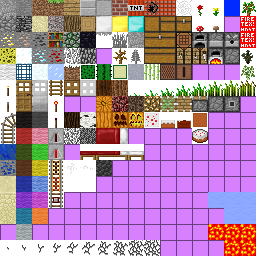
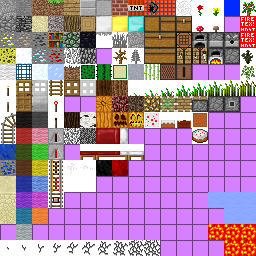
made comments more useful, added coal and redstone blocks with textures based on lapis block

Changed region(s): [[0.375, 0.625, 0.5, 0.6875]]

diff --git a/minecraft/src/net/minecraft/src/CraftingManager.java b/minecraft/src/net/minecraft/src/CraftingManager.java
@@ -79,13 +79,30 @@ public class CraftingManager {
 		this.addRecipe(new ItemStack(Block.pistonStickyBase, 1), new Object[]{"S", "P", Character.valueOf('S'), Item.slimeBall, Character.valueOf('P'), Block.pistonBase});
 		this.addRecipe(new ItemStack(Item.bed, 1), new Object[]{"###", "XXX", Character.valueOf('#'), Block.cloth, Character.valueOf('X'), Block.planks});
 
-    //BlockBackports ModStart
+    //GoldenAppleRecipe ModStart
 		this.addRecipe("GoldenAppleRecipe", new ItemStack(Item.appleGold, 1), new Object[]{"###", "#X#", "###", Character.valueOf('#'), Block.blockGold, Character.valueOf('X'), Item.appleRed});
+    //GoldenAppleRecipe ModEnd
 
+    //BlockBackports ModStart
 		this.addRecipe("SpongeRecipe", new ItemStack(Block.sponge, 1), new Object[]{" S ", "SYS", " S ", Character.valueOf('S'), Item.slimeBall, Character.valueOf('Y'), new ItemStack(Block.cloth, 1, 4)});
 
+    //FenceGate ModStart
 		this.addRecipe("FenceGate", new ItemStack(Block.fenceGate, 1), new Object[]{"#W#", "#W#", Character.valueOf('#'), Item.stick, Character.valueOf('W'), Block.planks});
+    //FenceGate ModStart
+    
+    //LeatherBookRecipe ModStart
+		if(Block.config.getProperty("LeatherBookRecipe").equals("1")) {
+			this.addShapelessRecipe(new ItemStack(Item.book, 1), new Object[]{new ItemStack(Item.paper, 1), new ItemStack(Item.paper, 1), new ItemStack(Item.paper, 1), new ItemStack(Item.leather, 1)});
+		} else {
+			this.addRecipe(new ItemStack(Item.book, 1), new Object[]{"#", "#", "#", Character.valueOf('#'), Item.paper});
+		}
+    //LeatherBookRecipe ModEnd
+    
+    //IronTrapdoor ModStart
+		this.addRecipe("IronTrapdoor", new ItemStack(Block.trapdoorIron, 2), new Object[]{"###", "###", Character.valueOf('#'), Item.ingotIron});
+    //IronTrapdoor ModEnd
 
+    //BlockBackports ModStart
 		this.addRecipe("SandstoneStairs", new ItemStack(Block.stairCompactSandstone, 4), new Object[]{"#  ", "## ", "###", Character.valueOf('#'), Block.sandStone});
 
 		this.addRecipe("BrickStairs", new ItemStack(Block.stairCompactBrick, 4), new Object[]{"#  ", "## ", "###", Character.valueOf('#'), Block.brick});
@@ -104,18 +121,18 @@ public class CraftingManager {
 			this.addRecipe(new ItemStack(Block.button, 1), new Object[]{"#", "#", Character.valueOf('#'), Block.stone});
 		}
 
-		this.addRecipe("IronTrapdoor", new ItemStack(Block.trapdoorIron, 2), new Object[]{"###", "###", Character.valueOf('#'), Item.ingotIron});
 
 		this.addRecipe("CobwebRecipe", new ItemStack(Block.web, 1), new Object[]{"###", "#S#", "###", Character.valueOf('#'), Item.silk, Character.valueOf('S'), Item.slimeBall});
     //BlockBackports ModEnd
+    
+    //RedstoneBlock ModStart
+		this.addRecipe("RedstoneBlock", new ItemStack(Block.blockRedstone, 1), new Object[]{"###", "###", "###", Character.valueOf('#'), Item.redstone});
+    //RedstoneBlock ModEnd
+    
+    //CoalBlock ModStart
+		this.addRecipe("CoalBlock", new ItemStack(Block.blockCoal, 1), new Object[]{"###", "###", "###", Character.valueOf('#'), Item.coal});
+    //CoalBlock ModEnd
 
-    //LeatherBookRecipe ModStart
-		if(Block.config.getProperty("LeatherBookRecipe").equals("1")) {
-			this.addShapelessRecipe(new ItemStack(Item.book, 1), new Object[]{new ItemStack(Item.paper, 1), new ItemStack(Item.paper, 1), new ItemStack(Item.paper, 1), new ItemStack(Item.leather, 1)});
-		} else {
-			this.addRecipe(new ItemStack(Item.book, 1), new Object[]{"#", "#", "#", Character.valueOf('#'), Item.paper});
-		}
-    //LeatherBookRecipe ModEnd
 
 		Collections.sort(this.recipes, new RecipeSorter(this));
 		System.out.println(this.recipes.size() + " recipes");

diff --git a/minecraft/src/net/minecraft/src/Block.java b/minecraft/src/net/minecraft/src/Block.java
@@ -12,6 +12,8 @@ public class Block {
 		"SandstoneStairs=1\n" +
 		"BrickSlab=1\n" +
 		"FenceGate=1\n" +
+		"RedstoneBlock=1\n" +
+		"CoalBlock=1\n" +
 		"WoodButton=1\n" +
 		"IronTrapdoor=1\n" +
 		"FloatingIronTrapdoor=1\n" +
@@ -192,12 +194,25 @@ public class Block {
   //id, texture, material
 	public static final Block stairCompactBrick = (new BlockStairs(108, brick)).setBlockName("stairsBrick").disableNeighborNotifyOnMetadataChange();
 	public static final Block stairCompactSandstone = (new BlockStairs(128, sandStone)).setBlockName("stairsSandstone").disableNeighborNotifyOnMetadataChange();
-	public static final Block fenceGate = (new BlockFenceGate(107, 4)).setHardness(2.0F).setResistance(5.0F).setStepSound(soundWoodFootstep).setBlockName("fenceGate").disableNeighborNotifyOnMetadataChange();
 	public static final Block buttonWood = (new BlockButton(143, planks.blockIndexInTexture)).setHardness(0.5F).setStepSound(soundWoodFootstep).setBlockName("button").disableNeighborNotifyOnMetadataChange();
+  //BlockBackports ModEnd
+  
+  //IronTrapdoor ModStart
 	public static final Block trapdoorIron = (new BlockTrapDoorIron(97, Material.iron)).setHardness(5.0F).setStepSound(soundMetalFootstep).setBlockName("trapdoorIron").disableStats().disableNeighborNotifyOnMetadataChange();
+  //IronTrapdoor ModEnd
+
+  //FenceGate ModStart
+	public static final Block fenceGate = (new BlockFenceGate(107, 4)).setHardness(2.0F).setResistance(5.0F).setStepSound(soundWoodFootstep).setBlockName("fenceGate").disableNeighborNotifyOnMetadataChange();
+  //FenceGate ModEnd
+  
+  //CoalBlock ModStart
   //material wood so it can be used to burn without editing Material.java
 	public static final Block blockCoal = (new Block(98, 166, Material.wood)).setHardness(3.0F).setResistance(5.0F).setStepSound(soundStoneFootstep).setBlockName("blockCoal");
-  //BlockBackports ModEnd
+  //CoalBlock ModEnd
+  
+  //RedstoneBlock ModStart
+	public static final Block blockRedstone = (new Block(152, 167, Material.rock)).setHardness(5.0F).setResistance(10.0F).setStepSound(soundMetalFootstep).setBlockName("blockRedstone");
+  //RedstoneBlock ModEnd
 
 
 	public int blockIndexInTexture;

diff --git a/minecraft/src/net/minecraft/src/ItemPickaxe.java b/minecraft/src/net/minecraft/src/ItemPickaxe.java
@@ -1,7 +1,7 @@
 package net.minecraft.src;
 
 public class ItemPickaxe extends ItemTool {
-	private static Block[] blocksEffectiveAgainst = new Block[]{Block.cobblestone, Block.stairDouble, Block.stairSingle, Block.stone, Block.sandStone, Block.cobblestoneMossy, Block.oreIron, Block.blockSteel, Block.oreCoal, Block.blockGold, Block.oreGold, Block.oreDiamond, Block.blockDiamond, Block.ice, Block.netherrack, Block.oreLapis, Block.blockLapis, Block.blockCoal};
+	private static Block[] blocksEffectiveAgainst = new Block[]{Block.cobblestone, Block.stairDouble, Block.stairSingle, Block.stone, Block.sandStone, Block.cobblestoneMossy, Block.oreIron, Block.blockSteel, Block.oreCoal, Block.blockGold, Block.oreGold, Block.oreDiamond, Block.blockDiamond, Block.ice, Block.netherrack, Block.oreLapis, Block.blockLapis};
 
 	protected ItemPickaxe(int var1, EnumToolMaterial var2) {
 		super(var1, 2, var2, blocksEffectiveAgainst);
@@ -17,7 +17,9 @@ public class ItemPickaxe extends ItemTool {
 	}
 
 	//ToolFix ModStart
-	private static Block[] toolFixBlocks = new Block[]{Block.oreRedstone, Block.oreRedstoneGlowing, Block.stairCompactCobblestone, Block.doorSteel, Block.brick, Block.stoneOvenIdle, Block.stoneOvenActive, Block.dispenser, Block.pressurePlateStone, Block.rail, Block.railPowered, Block.railDetector, Block.button};
+	//CoalBlock ModStart
+	//RedstoneBlock ModStart
+	private static Block[] toolFixBlocks = new Block[]{Block.oreRedstone, Block.oreRedstoneGlowing, Block.stairCompactCobblestone, Block.doorSteel, Block.brick, Block.stoneOvenIdle, Block.stoneOvenActive, Block.dispenser, Block.pressurePlateStone, Block.rail, Block.railPowered, Block.railDetector, Block.button, Block.blockCoal, Block.blockRedstone};
 
 	public float getStrVsBlock(ItemStack var1, Block block) {
 		if(Block.config.getProperty("ToolFix").equals("1")) {
@@ -31,4 +33,6 @@ public class ItemPickaxe extends ItemTool {
 		return super.getStrVsBlock(var1, block);
 	}
 	//ToolFix ModEnd
+	//CoalBlock ModEnd
+	//RedstoneBlock ModEnd
 }

diff --git a/minecraft/src/net/minecraft/src/World.java b/minecraft/src/net/minecraft/src/World.java
@@ -2144,16 +2144,19 @@ public class World implements IBlockAccess {
 		return var5 == 0 ? false : Block.blocksList[var5].isIndirectlyPoweringTo(this, var1, var2, var3, var4);
 	}
 
-	public boolean isBlockGettingPowered(int var1, int var2, int var3) {
-		return this.isBlockProvidingPowerTo(var1, var2 - 1, var3, 0) ? true : (this.isBlockProvidingPowerTo(var1, var2 + 1, var3, 1) ? true : (this.isBlockProvidingPowerTo(var1, var2, var3 - 1, 2) ? true : (this.isBlockProvidingPowerTo(var1, var2, var3 + 1, 3) ? true : (this.isBlockProvidingPowerTo(var1 - 1, var2, var3, 4) ? true : this.isBlockProvidingPowerTo(var1 + 1, var2, var3, 5)))));
+	public boolean isBlockGettingPowered(int x, int y, int z) {
+		return this.isBlockProvidingPowerTo(x, y - 1, z, 0) ? true : (this.isBlockProvidingPowerTo(x, y + 1, z, 1) ? true : (this.isBlockProvidingPowerTo(x, y, z - 1, 2) ? true : (this.isBlockProvidingPowerTo(x, y, z + 1, 3) ? true : (this.isBlockProvidingPowerTo(x - 1, y, z, 4) ? true : this.isBlockProvidingPowerTo(x + 1, y, z, 5)))));
 	}
 
-	public boolean isBlockIndirectlyProvidingPowerTo(int var1, int var2, int var3, int var4) {
-		if(this.isBlockNormalCube(var1, var2, var3)) {
-			return this.isBlockGettingPowered(var1, var2, var3);
+	public boolean isBlockIndirectlyProvidingPowerTo(int x, int y, int z, int side) {
+    //RedstoneBlock ModStart
+    if(this.getBlockId(x, y, z) == Block.blockRedstone.blockID) return true;
+    //RedstoneBlock ModEnd
+		if(this.isBlockNormalCube(x, y, z)) {
+			return this.isBlockGettingPowered(x, y, z);
 		} else {
-			int var5 = this.getBlockId(var1, var2, var3);
-			return var5 == 0 ? false : Block.blocksList[var5].isPoweringTo(this, var1, var2, var3, var4);
+			int var5 = this.getBlockId(x, y, z);
+			return var5 == 0 ? false : Block.blocksList[var5].isPoweringTo(this, x, y, z, side);
 		}
 	}
 

diff --git a/minecraft/src/net/minecraft/src/RenderBlocks.java b/minecraft/src/net/minecraft/src/RenderBlocks.java
@@ -111,9 +111,9 @@ public class RenderBlocks {
       case 15: return this.renderBlockRepeater(var1, var2, var3, var4);
       case 16: return this.func_31074_b(var1, var2, var3, var4, false);
       case 17: return this.func_31080_c(var1, var2, var3, var4, true);
-      //BlockBackPorts ModStart
+      //FenceGate ModStart
       case 21: return this.renderBlockFenceGate(var1, var2, var3, var4);
-      //BlockBackPorts ModEnd
+      //FenceGate ModEnd
       default: return false;
     }
 	}

diff --git a/minecraft/src/net/minecraft/src/BlockTrapDoorIron.java b/minecraft/src/net/minecraft/src/BlockTrapDoorIron.java
@@ -1,4 +1,4 @@
-//BlockBackPorts ModStart
+//IronTrapDoor ModStart
 package net.minecraft.src;
 
 public class BlockTrapDoorIron extends Block {
@@ -183,4 +183,4 @@ public class BlockTrapDoorIron extends Block {
 		return (var0 & 4) != 0;
 	}
 }
-//BlockBackPorts ModEnd
+//IronTrapDoor ModEnd

diff --git a/minecraft/src/net/minecraft/src/BlockFenceGate.java b/minecraft/src/net/minecraft/src/BlockFenceGate.java
@@ -1,4 +1,4 @@
-//BlockBackPorts ModStart
+//FenceGate ModStart
 package net.minecraft.src;
 
 public class BlockFenceGate extends Block {
@@ -86,4 +86,4 @@ public class BlockFenceGate extends Block {
 		return var0 & 3;
 	}
 }
-//BlockBackPorts ModEnd
+//FenceGate ModEnd
